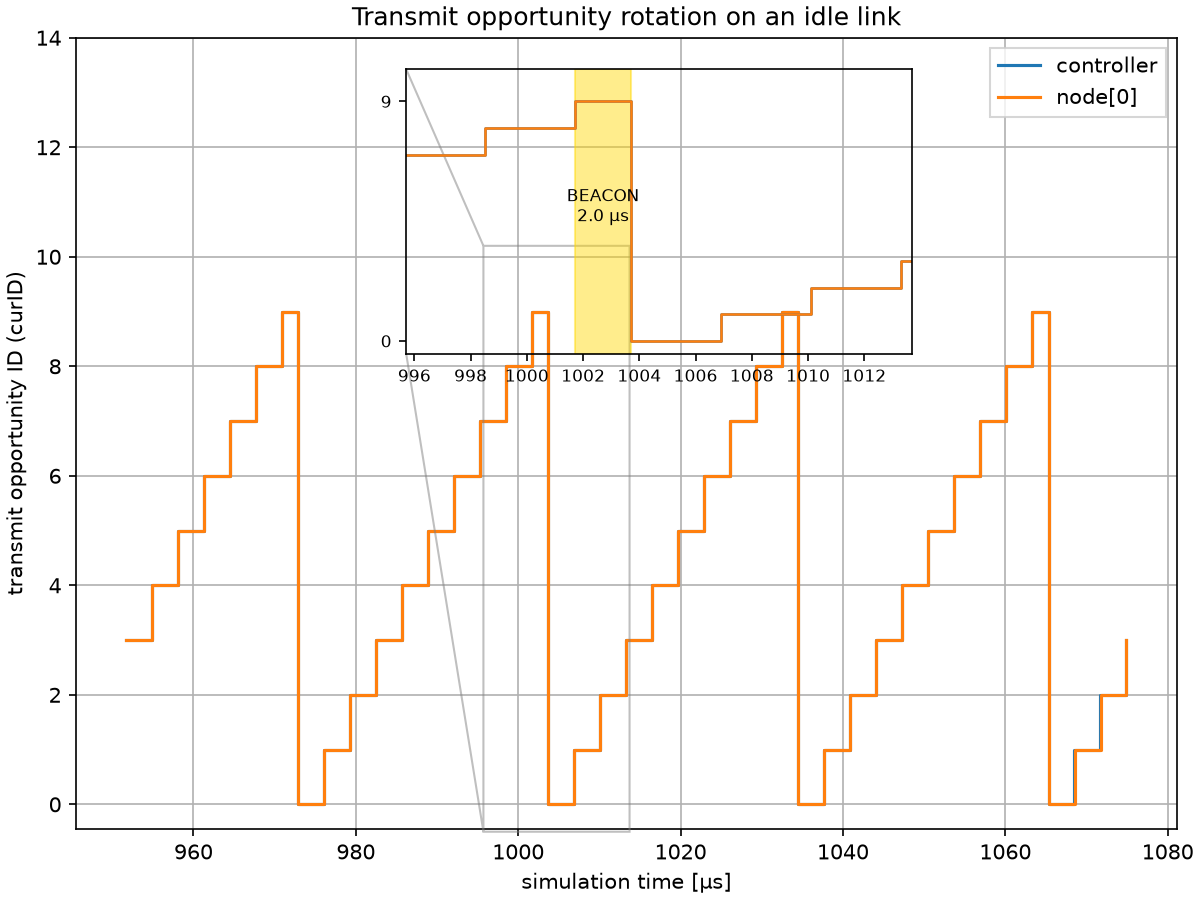
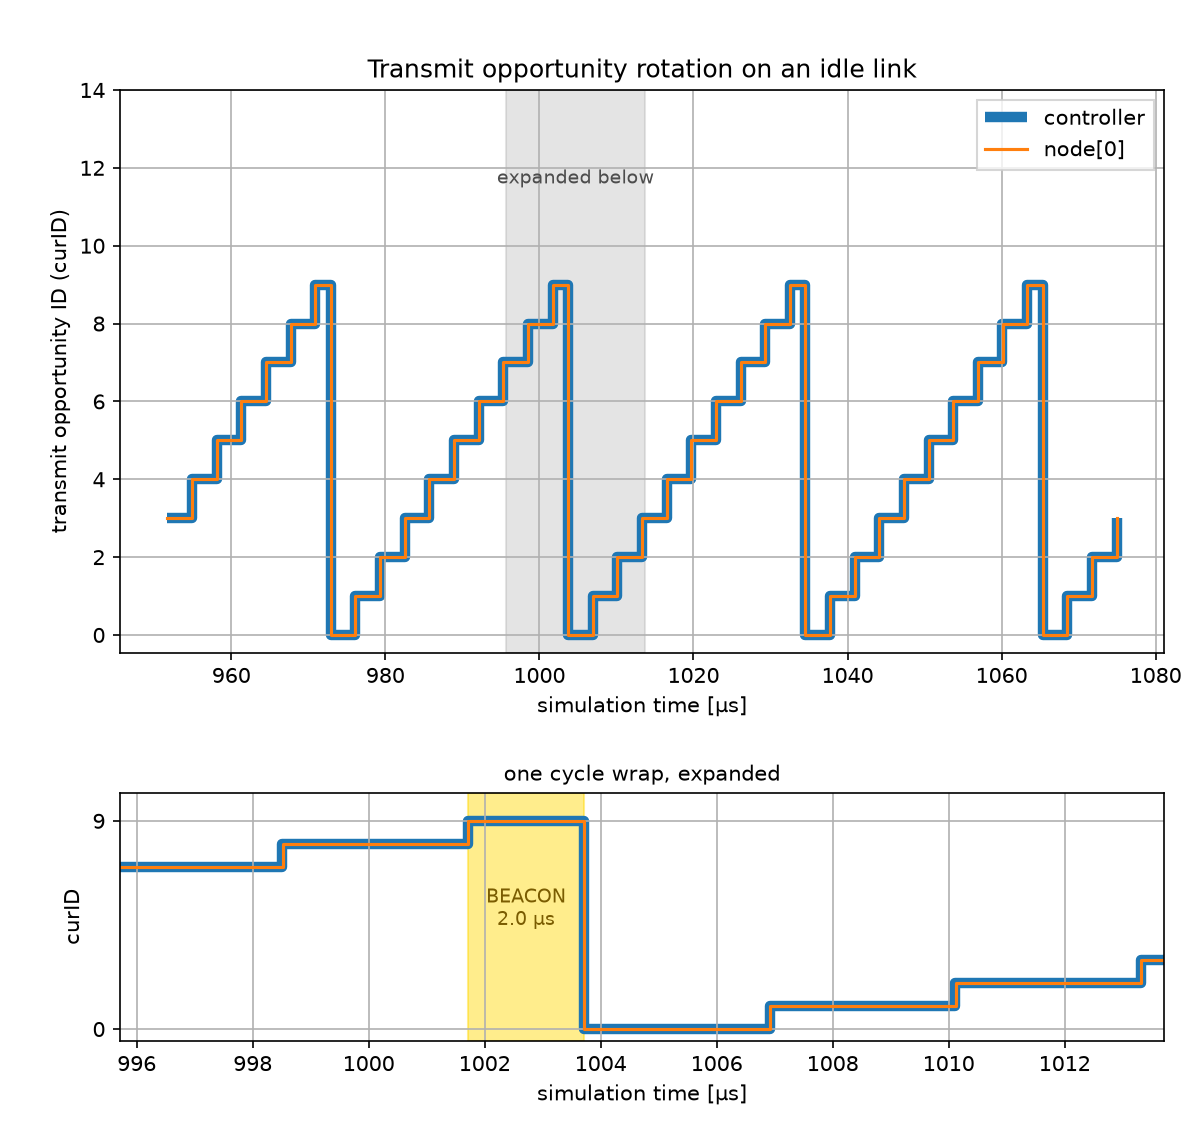
showcases/ethernet/tenbaset1s: redraw the transmit opportunity rotation chart
The beacon zoom was an inset placed inside the data area, and
indicate_inset_zoom() drew connector lines from the source region at the
bottom of the plot up to it, so the inset and the connectors both crossed the
staircase. Move the zoom into a lower panel instead: nothing is covered and no
connectors are needed. A grey band in the upper panel marks the window the
lower panel expands, and gold now marks only the beacon, so the two shadings
are not read as the same span.

The legend also advertised a controller curve that was nowhere on the plot: it
is identical to node[0], which was drawn over it. Draw the controller as a
wide blue band with node[0] riding on top, so the lockstep is shown rather
than only claimed in the text.

Same data and same window; the figure is 8x7.5 in instead of 8x6. The
superseded single-panel rendering is kept under doc/media/unused/.

diff --git a/showcases/ethernet/tenbaset1s/doc/index.rst b/showcases/ethernet/tenbaset1s/doc/index.rst
@@ -197,28 +197,36 @@ directly:
    type:    chart (matplotlib)
    anf:     TenBaseT1S.anf   chart "Transmit opportunity rotation"
    inputs:  results/CycleAnatomy-*.vec (plca.curID vectors, controller + node[0])
-   shows:   curID staircase over ~4 idle cycles (window 950-1075 us): IDs 0..8 in fixed
-            order, stepping past the last ID to 9, then the node-0 BEACON resets all
-            counters; controller and edge node in lockstep (curves coincide). Inset zooms
-            one cycle wrap and shades the measured 2.0 us BEACON.
+   shows:   two panels. Upper: curID staircase over ~4 idle cycles (window 950-1075 us),
+            IDs 0..8 in fixed order, stepping past the last ID to 9, then the node-0
+            BEACON resets all counters; the grey band marks the cycle wrap that the
+            lower panel expands. Lower: that one cycle wrap, with the measured 2.0 us
+            BEACON shaded gold. Grey = "expanded below", gold = the beacon; the two
+            shadings are deliberately different colours so they are not equated.
+            The controller is drawn as a wide blue band with node[0] on top, so both
+            curves are visible where they coincide (they always do).
    anchors: idle-TO dwell 3.2 us; empty cycle 30.8 us; BEACON 2.0 us (all measured in this
             window at G4). If the staircase shape or these dwells change, the PLCA timing
             model changed - re-derive.
    export:  opp_charttool imageexport TenBaseT1S.anf -n "Transmit opportunity rotation"
-            -f png --dpi 150 -d doc/media   (8x6 in -> 1200x900 px)
+            -f png --dpi 150 -d doc/media   (8x7.5 in -> 1200x1125 px)
    stamp:   captured 2026-08-14, INET topic/gy/tenbaset1s-showcase @ 5e0d2fce22 + showcase
-            dir, OMNeT++ 6.4.0aipre2 (omnetpp-dev)
+            dir, OMNeT++ 6.4.0aipre2 (omnetpp-dev). Layout revised 2026-08-17: the beacon
+            zoom moved from an inset to a lower panel, same data. The superseded
+            single-panel rendering is kept at doc/media/unused/to-rotation.png.
 
 **The transmit opportunity rotates through every node ID in fixed order;
 node 0's beacon starts each cycle.**
 
 The controller and node[0] curves coincide — their sampled values never differ
 in this run, only nanosecond propagation offsets separate them — so all nodes
-count in lockstep. Each staircase tops out at 9: every node steps past the last ID, and
-on node 0 passing the node count triggers the next beacon, which resets all
-counters — the counters also start at 9 before the first beacon (not shown;
-it lies outside the plotted window). The inset zooms on one beacon (measured
-duration 2.00 µs).
+count in lockstep. That is why the thin orange line rides exactly on the wide
+blue controller band everywhere. Each staircase tops out at 9: every node steps
+past the last ID, and on node 0 passing the node count triggers the next
+beacon, which resets all counters — the counters also start at 9 before the
+first beacon (not shown; it lies outside the plotted window). The lower panel
+expands the grey-marked cycle wrap from the upper panel, and shades node 0's
+beacon (measured duration 2.00 µs).
 
 .. figure:: media/to-timelines.png
    :align: center
